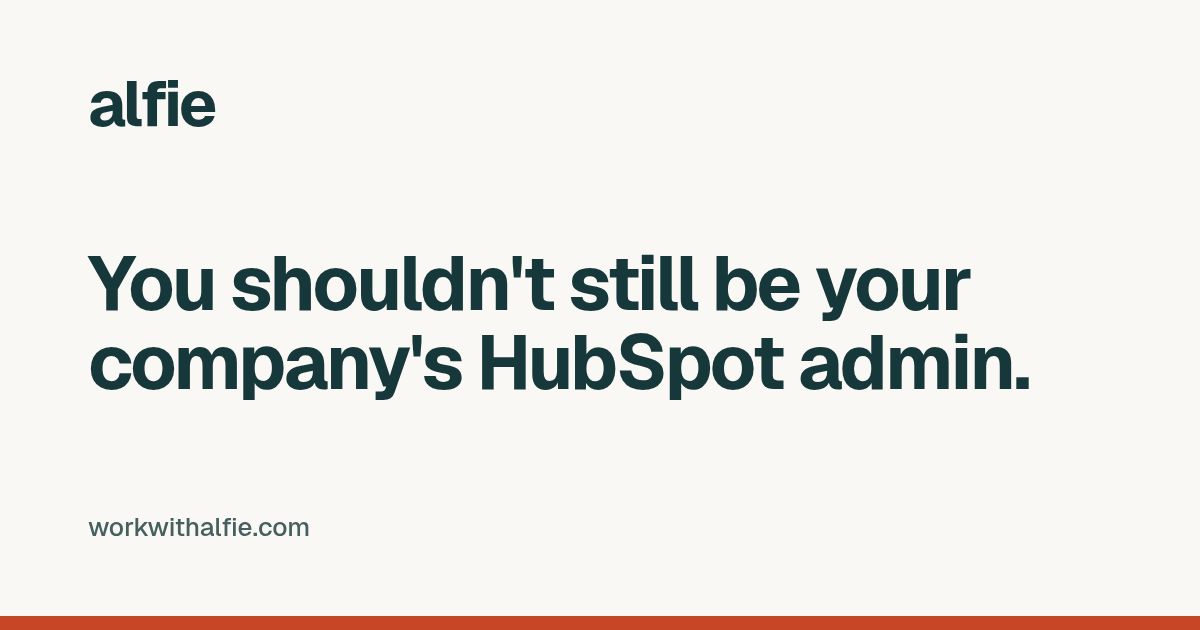
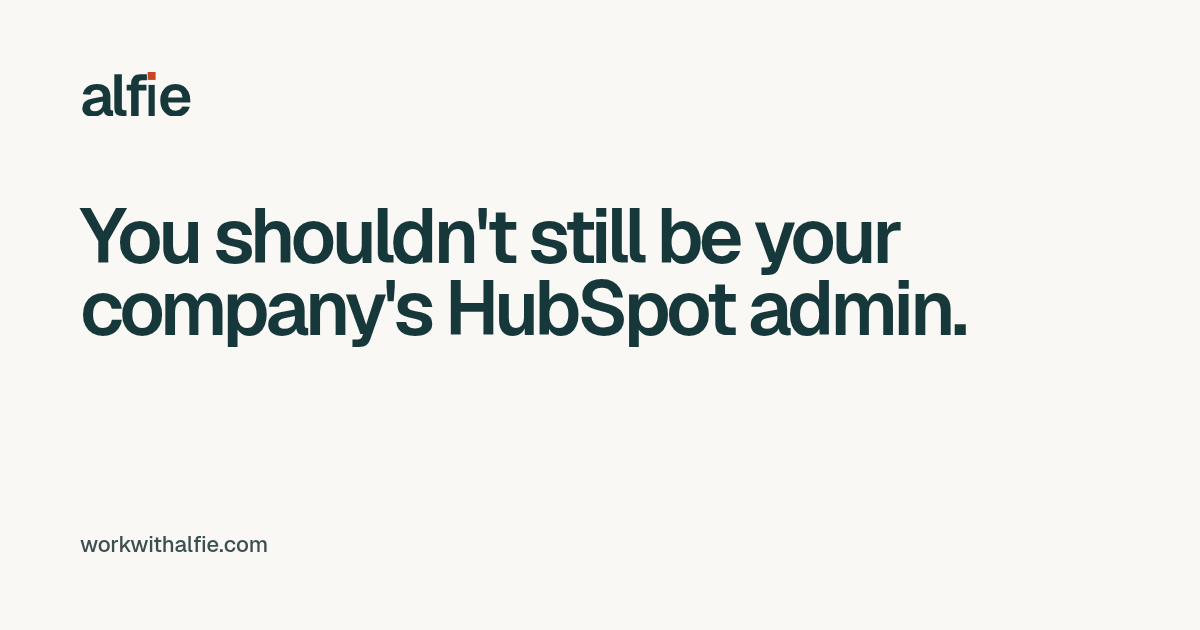
Apply brand guide v0.1 and copy v0.3

diff --git a/index.html b/index.html
@@ -7,7 +7,10 @@
 <meta name="description" content="Alfie gets the HubSpot basics running for growing SaaS teams, on standard rules you approve. Every change is checked against your rules, and you sign off on what matters.">
 <meta name="robots" content="noindex, nofollow">
 <link rel="canonical" href="https://workwithalfie.com/">
+<link rel="icon" href="/favicon.ico" sizes="16x16 32x32 48x48">
 <link rel="icon" href="/favicon.svg" type="image/svg+xml">
+<link rel="icon" href="/icons/icon-32.png" type="image/png" sizes="32x32">
+<link rel="icon" href="/icons/icon-16.png" type="image/png" sizes="16x16">
 <link rel="apple-touch-icon" href="/apple-touch-icon.png">
 <meta name="theme-color" content="#FAF8F4">
 <meta property="og:type" content="website">
@@ -18,22 +21,24 @@
 <meta property="og:image" content="https://workwithalfie.com/og-image.png">
 <meta property="og:image:width" content="1200">
 <meta property="og:image:height" content="630">
-<meta property="og:image:alt" content="alfie. You shouldn't still be your company's HubSpot admin.">
+<meta property="og:image:alt" content="Alfie. You shouldn't still be your company's HubSpot admin.">
 <meta name="twitter:card" content="summary_large_image">
 <meta name="twitter:title" content="You shouldn't still be your company's HubSpot admin.">
 <meta name="twitter:description" content="Alfie starts on the basics, using standard rules you approve, and from day one checks your HubSpot and proposes fixes. Every change is checked.">
 <meta name="twitter:image" content="https://workwithalfie.com/og-image.png">
-<meta name="twitter:image:alt" content="alfie. You shouldn't still be your company's HubSpot admin.">
-<link rel="preconnect" href="https://fonts.googleapis.com">
-<link rel="preconnect" href="https://fonts.gstatic.com" crossorigin>
+<meta name="twitter:image:alt" content="Alfie. You shouldn't still be your company's HubSpot admin.">
 <link rel="preconnect" href="https://challenges.cloudflare.com">
-<link href="https://fonts.googleapis.com/css2?family=Geist:wght@400;500;600;700&amp;display=swap" rel="stylesheet">
+<link rel="preload" href="/fonts/Geist.woff2" as="font" type="font/woff2" crossorigin>
 <style>
+  /* Geist + Geist Mono, self-hosted (variable, latin subset). No external font requests. */
+  @font-face{font-family:"Geist";src:url("/fonts/Geist.woff2") format("woff2");font-weight:100 900;font-style:normal;font-display:swap}
+  @font-face{font-family:"Geist Mono";src:url("/fonts/GeistMono.woff2") format("woff2");font-weight:100 900;font-style:normal;font-display:swap}
   :root{
-    --bg:#FAF8F4; --ink:#17383A; --muted:#45605F; --accent:#C74625; --accent-dark:#A93A1E;
-    --card:#FFFFFF; --line:#E4DFD5; --soft:#F1EDE5; --input-border:#7A8C8A; --placeholder:#5F7170;
-    --err:#8E2F17; --err-bg:#FBE7E1; --ok-bg:#E3EEEC;
-    --radius:14px; --max:1120px;
+    --bg:#FAF8F4; --ink:#17383A; --muted:#5B6E6F; --body:#3D5051; --accent:#C74625; --accent-dark:#A73A1E;
+    --accent-text:#9E3519; --accent-on-dark:#EFAA89; --attn-bg:#FDF6F2;
+    --card:#FFFFFF; --line:#E3DED4; --line-row:#EEEAE2; --line-strong:#C9C2B4; --soft:#F2EEE7; --input-border:#8A8273; --placeholder:#5F7170;
+    --err:#8E2F17; --err-bg:#FBE7E1; --ok-bg:#E3EDEC;
+    --radius:10px; --max:1200px;
   }
   *{box-sizing:border-box}
   html{-webkit-text-size-adjust:100%;scroll-behavior:smooth}
@@ -194,6 +199,44 @@
     .btn:hover,.btn:focus-visible{transform:translateY(-1px)}
   }
   @media (prefers-reduced-motion:reduce){html{scroll-behavior:auto}*{transition:none!important}}
+  /* Brand guide v0.1 (Oct 20) fixes */
+  .wrap{padding-left:32px;padding-right:32px}
+  :focus-visible{outline:2px solid var(--ink);outline-offset:3px}
+  .wordmark{display:inline-flex;align-items:center;line-height:0}
+  header .wordmark svg{height:22.5px;width:auto} footer .wordmark svg{height:18px;width:auto}
+  h1{font-size:clamp(44px,6vw,84px);line-height:.95;letter-spacing:-0.055em;font-weight:600}
+  h2{font-size:clamp(32px,3.6vw,48px);line-height:1;letter-spacing:-0.045em;font-weight:600}
+  .card h3{font-size:20px;font-weight:600;letter-spacing:-0.02em}
+  .lede,.card p,.more-box p{color:var(--body)}
+  .label{font-size:12px;font-weight:600;letter-spacing:.14em;color:var(--accent-text)}
+  .btn{border-radius:6px;font-weight:500;padding:14px 24px;min-height:48px}
+  .btn-primary:hover{background:var(--accent-dark)}
+  .btn-ghost{border:1px solid var(--input-border);background:#fff;padding:13px 23px}
+  .btn-ghost:hover{background:var(--soft)}
+  .queue{border-radius:10px;box-shadow:0 24px 48px -24px rgba(23,56,58,.18)}
+  .queue-head{font-family:"Geist Mono",ui-monospace,monospace;font-size:12px;font-weight:500;letter-spacing:.04em;border-bottom-color:var(--line-row)}
+  .queue-head span{font-family:Geist,system-ui,sans-serif;text-transform:none;letter-spacing:0;font-size:12px;color:var(--muted)}
+  .queue-head span{margin-left:auto} /* keep WORK QUEUE beside the live dot, not centred */
+  .status{font-family:"Geist Mono",ui-monospace,monospace;font-size:11px;font-weight:500;letter-spacing:0;padding:5px 9px;border-radius:4px}
+  .s-done{background:var(--ok-bg);color:var(--ink)}
+  .s-approve{background:var(--accent);color:#fff}
+  .s-check{background:transparent;color:var(--ink);border:1px solid var(--input-border)}
+  .flow{background:#fff}
+  .flow ol{font-family:"Geist Mono",ui-monospace,monospace;font-size:13px;font-weight:400;letter-spacing:.04em;justify-content:flex-start}
+  .flow .n{border:0;width:auto;height:auto;font-size:13px;font-weight:400;color:var(--accent-text)}
+  .card{border-radius:10px}
+  .more-box{border-radius:10px}
+  .cta-box{border-radius:10px}
+  .cta-box .intro p{color:#D2DCDB}
+  .form-card{border-radius:10px}
+  .field input,.field textarea{border:1px solid var(--input-border);border-radius:6px}
+  .field input:focus,.field textarea:focus{outline:2px solid var(--ink);outline-offset:2px}
+  .navlink{border:1px solid var(--ink);border-radius:6px;padding:11px 19px;min-height:44px;display:inline-flex;align-items:center;box-sizing:border-box}
+  .flow .n::before{display:none}
+  @media (max-width:480px){.wrap{padding-left:20px;padding-right:20px}}
+  /* 44px tap area for the inline privacy link, without changing how it looks */
+  .small a{position:relative;white-space:nowrap}
+  .small a::after{content:"";position:absolute;left:-6px;right:-6px;top:50%;height:44px;transform:translateY(-50%)}
 </style>
 </head>
 <body>
@@ -201,7 +244,11 @@
 
 <header class="top">
   <div class="wrap">
-    <a class="wordmark" href="/" aria-label="Alfie home">alfie</a>
+    <a class="wordmark" href="/" aria-label="Alfie home"><svg xmlns="http://www.w3.org/2000/svg" viewBox="0 0 168.96 66.00" aria-hidden="true" focusable="false">
+<path fill="#17383A" d="M19.764808593749997 67.056Q12.4432021484375 67.056 7.94638818359375 63.6767978515625Q3.4495742187499996 60.297595703125 3.4495742187499996 54.24319140625Q3.4495742187499996 48.1183828125 7.233590332031249 44.70398388671875Q11.017606445312499 41.2895849609375 18.70880859375 39.775978515625L34.337552734374995 36.73118066406251Q34.337552734374995 31.715234375 32.04078173828125 29.1984580078125Q29.7440107421875 26.681681640625 25.29127734375 26.681681640625Q21.190522460937498 26.681681640625 18.84975146484375 28.556064453125003Q16.50898046875 30.430447265625006 15.699395507812499 33.985617187500004L4.241574218749999 33.4048193359375Q5.596776367187499 25.995169921875004 11.061601074218748 21.973574218750002Q16.526425781249998 17.951978515625 25.29127734375 17.951978515625Q35.323341796875 17.951978515625 40.4625654296875 22.99437744140625Q45.601789062499996 28.0367763671875 45.601789062499996 37.45280859375001V54.5774775390625Q45.601789062499996 56.4430947265625 46.244193359375 57.12069580078125Q46.88659765625 57.798296875 48.20659765625 57.798296875H49.702576171874995V66.0Q49.1745654296875 66.158404296875 47.995341796874996 66.27280859375Q46.816118164062495 66.387212890625 45.619298828125 66.387212890625Q42.697713867187495 66.387212890625 40.41849560546875 65.42801611328125Q38.139277343749995 64.4688193359375 36.87205371093749 62.172010742187496Q35.604830078125 59.8752021484375 35.604830078125 55.827169921875L36.625638671874995 56.496Q35.868830078125 59.5936064453125 33.563234375 61.99600537109375Q31.257638671874997 64.398404296875 27.720037597656248 65.7272021484375Q24.1824365234375 67.056 19.764808593749997 67.056ZM22.088107421874998 58.854296875Q25.836851562499998 58.854296875 28.5736171875 57.384717285156256Q31.3103828125 55.9151376953125 32.823967773437495 53.248765625000004Q34.337552734374995 50.5823935546875 34.337552734374995 47.027212890625V44.387255859375L22.158533203125 46.851234375000004Q18.4273955078125 47.590425781250005 16.7642041015625 49.1480107421875Q15.1010126953125 50.705595703125 15.1010126953125 53.187169921875Q15.1010126953125 55.879935546875004 16.92258154296875 57.3671162109375Q18.744150390625 58.854296875 22.088107421874998 58.854296875Z M62.779277343749996 66.0Q57.60480859374999 66.0 54.55997851562499 63.3599677734375Q51.515148437499995 60.719935546875 51.515148437499995 54.876658203125004V3.520000000000003H62.779384765625V53.7326259765625Q62.779384765625 55.5630517578125 63.68579443359374 56.416658203125Q64.59220410156249 57.270264648437504 66.28182128906249 57.270264648437504H69.731384765625V66.0Z M76.69317869101977 66.0V17.19896377473364Q76.69317869101977 10.821856925418572 80.21189284627091 7.170928462709288Q83.73060700152206 3.520000000000003 91.16392815829526 3.520000000000003H100.35553485540333V12.270535159817356H93.2720706240487Q90.54407062404869 12.270535159817356 89.26785631659055 13.678749467275502Q87.9916420091324 15.086963774733647 87.9916420091324 17.770856621004576V66.0ZM70.00603592085234 27.759392389649925V19.00885722983257H99.6956420091324V27.759392389649925Z M143.40487304687497 67.056Q136.382447265625 67.056 131.21682470703124 64.0287978515625Q126.05120214843748 61.001595703125 123.22638818359374 55.4663935546875Q120.40157421874999 49.93119140625 120.40157421874999 42.503989257812506Q120.40157421874999 35.076787109375005 123.22638818359374 29.585584960937503Q126.05120214843748 24.0943828125 131.16402685546873 21.0231806640625Q136.27685156249998 17.951978515625 143.193681640625 17.951978515625Q149.89932031249998 17.951978515625 154.93294287109373 20.952787109375002Q159.96656542968748 23.953595703125004 162.72097509765624 29.5856064453125Q165.475384765625 35.2176171875 165.475384765625 43.120021484375V45.6368408203125H132.08821484375Q132.4226083984375 51.8495634765625 135.458576171875 54.94712158203125Q138.49454394531247 58.0446796875 143.545681640625 58.0446796875Q147.31203222656248 58.0446796875 149.80240429687498 56.36390869140625Q152.29277636718749 54.6831376953125 153.2959677734375 51.5855634765625L164.80658691406248 52.307169921875Q162.92338476562497 59.118404296875 157.22975146484373 63.0872021484375Q151.5361181640625 67.056 143.40487304687497 67.056ZM132.08821484375 38.0687763671875H153.788765625Q153.4367763671875 32.3488408203125 150.55920751953124 29.585665527343753Q147.681638671875 26.822490234375003 143.193681640625 26.822490234375003Q138.670533203125 26.822490234375003 135.7225654296875 29.71766552734375Q132.77459765625 32.6128408203125 132.08821484375 38.0687763671875Z"/>
+<rect x="102.87" y="19.36" width="9.24" height="46.64" fill="#17383A"/>
+<rect x="101.55" y="-0.00" width="11.88" height="11.88" fill="#C74625"/>
+</svg></a>
     <a class="navlink" href="#contact">Contact</a>
   </div>
 </header>
@@ -212,7 +259,7 @@
       <div>
         <p class="label">For SaaS teams running on HubSpot</p>
         <h1 id="hero-title">You shouldn't still be your company's HubSpot admin.</h1>
-        <p class="pains">We built Alfie after watching a fast-growing SaaS team outgrow HubSpot: <strong>duplicate accounts, ownership fights, a forecast nobody trusted.</strong></p>
+        <p class="pains">We built Alfie after watching a fast-growing SaaS team's HubSpot setup fall behind the business: <strong>duplicate accounts, ownership fights, a forecast nobody trusted.</strong></p>
         <p class="lede">Alfie starts on the basics: clean data and required fields first, then routing and account ownership. You approve a set of standard rules, and from day one Alfie checks your HubSpot against them and proposes fixes. Every change is checked against your rules, and you sign off on what matters.</p>
         <div class="actions">
           <a class="btn btn-primary" href="#contact">Tell us what's breaking</a>
@@ -221,7 +268,7 @@
       </div>
 
       <figure class="queue" aria-label="Example of Alfie's work queue. Example data; names and numbers are illustrative.">
-        <div class="queue-head">Alfie work queue <span>Example data</span></div>
+        <div class="queue-head">WORK QUEUE <span>Example data</span></div>
         <ol>
           <li><span class="job">Clean new contacts</span><span class="detail">Names, fields and lifecycle stage checked</span><span class="status s-done">DONE</span></li>
           <li><span class="job">Assign Acme to Sarah</span><span class="detail">Territory passes. Over owner cap.</span><span class="status s-approve">NEEDS APPROVAL</span></li>
@@ -236,10 +283,10 @@
   <nav class="flow" aria-label="How a change happens">
     <div class="wrap">
       <ol>
-        <li><span class="n" aria-hidden="true">1</span>Request</li>
-        <li><span class="n" aria-hidden="true">2</span>Rule check</li>
-        <li><span class="n" aria-hidden="true">3</span>Approval if needed</li>
-        <li><span class="n" aria-hidden="true">4</span>Verified in HubSpot</li>
+        <li><span class="n" aria-hidden="true">01</span>Request</li>
+        <li><span class="n" aria-hidden="true">02</span>Rule check</li>
+        <li><span class="n" aria-hidden="true">03</span>Approval if needed</li>
+        <li><span class="n" aria-hidden="true">04</span>Verified in HubSpot</li>
       </ol>
     </div>
   </nav>
@@ -269,7 +316,7 @@
     <div class="wrap">
       <div class="more-box">
         <h2 id="complex-title">More complicated processes?</h2>
-        <p>Some processes are custom or were never written down. We'll assess how they really run, design and document the fix with you, then Alfie runs it.</p>
+        <p>Some processes are custom or were never written down. We'll work out how they really run, design and document the fix with you, then Alfie runs it.</p>
       </div>
     </div>
   </section>
@@ -278,7 +325,7 @@
     <div class="wrap">
       <div class="cta-box">
         <div class="intro">
-          <h2 id="cta-title">Tell us what's breaking in your HubSpot.</h2>
+          <h2 id="cta-title">Tell us what's breaking in your HubSpot setup.</h2>
           <p>A few lines is plenty. We'll reply within a day.</p>
           <p class="new">We're new, so we're working with a small first group of teams.</p>
         </div>
@@ -300,7 +347,7 @@
               <p class="field-error" id="e-company"></p>
             </div>
             <div class="field">
-              <label for="f-message">What's breaking in your HubSpot?</label>
+              <label for="f-message">What's breaking in your HubSpot setup?</label>
               <textarea id="f-message" name="message" rows="4" maxlength="3000" placeholder="For example: duplicate companies, deals with no owner, or a forecast no one uses. Who runs HubSpot today?" required aria-describedby="e-message"></textarea>
               <p class="field-error" id="e-message"></p>
             </div>
@@ -325,7 +372,11 @@
 
 <footer>
   <div class="wrap">
-    <span class="wordmark" role="img" aria-label="Alfie">alfie</span>
+    <span class="wordmark" role="img" aria-label="Alfie"><svg xmlns="http://www.w3.org/2000/svg" viewBox="0 0 168.96 66.00" aria-hidden="true" focusable="false">
+<path fill="#17383A" d="M19.764808593749997 67.056Q12.4432021484375 67.056 7.94638818359375 63.6767978515625Q3.4495742187499996 60.297595703125 3.4495742187499996 54.24319140625Q3.4495742187499996 48.1183828125 7.233590332031249 44.70398388671875Q11.017606445312499 41.2895849609375 18.70880859375 39.775978515625L34.337552734374995 36.73118066406251Q34.337552734374995 31.715234375 32.04078173828125 29.1984580078125Q29.7440107421875 26.681681640625 25.29127734375 26.681681640625Q21.190522460937498 26.681681640625 18.84975146484375 28.556064453125003Q16.50898046875 30.430447265625006 15.699395507812499 33.985617187500004L4.241574218749999 33.4048193359375Q5.596776367187499 25.995169921875004 11.061601074218748 21.973574218750002Q16.526425781249998 17.951978515625 25.29127734375 17.951978515625Q35.323341796875 17.951978515625 40.4625654296875 22.99437744140625Q45.601789062499996 28.0367763671875 45.601789062499996 37.45280859375001V54.5774775390625Q45.601789062499996 56.4430947265625 46.244193359375 57.12069580078125Q46.88659765625 57.798296875 48.20659765625 57.798296875H49.702576171874995V66.0Q49.1745654296875 66.158404296875 47.995341796874996 66.27280859375Q46.816118164062495 66.387212890625 45.619298828125 66.387212890625Q42.697713867187495 66.387212890625 40.41849560546875 65.42801611328125Q38.139277343749995 64.4688193359375 36.87205371093749 62.172010742187496Q35.604830078125 59.8752021484375 35.604830078125 55.827169921875L36.625638671874995 56.496Q35.868830078125 59.5936064453125 33.563234375 61.99600537109375Q31.257638671874997 64.398404296875 27.720037597656248 65.7272021484375Q24.1824365234375 67.056 19.764808593749997 67.056ZM22.088107421874998 58.854296875Q25.836851562499998 58.854296875 28.5736171875 57.384717285156256Q31.3103828125 55.9151376953125 32.823967773437495 53.248765625000004Q34.337552734374995 50.5823935546875 34.337552734374995 47.027212890625V44.387255859375L22.158533203125 46.851234375000004Q18.4273955078125 47.590425781250005 16.7642041015625 49.1480107421875Q15.1010126953125 50.705595703125 15.1010126953125 53.187169921875Q15.1010126953125 55.879935546875004 16.92258154296875 57.3671162109375Q18.744150390625 58.854296875 22.088107421874998 58.854296875Z M62.779277343749996 66.0Q57.60480859374999 66.0 54.55997851562499 63.3599677734375Q51.515148437499995 60.719935546875 51.515148437499995 54.876658203125004V3.520000000000003H62.779384765625V53.7326259765625Q62.779384765625 55.5630517578125 63.68579443359374 56.416658203125Q64.59220410156249 57.270264648437504 66.28182128906249 57.270264648437504H69.731384765625V66.0Z M76.69317869101977 66.0V17.19896377473364Q76.69317869101977 10.821856925418572 80.21189284627091 7.170928462709288Q83.73060700152206 3.520000000000003 91.16392815829526 3.520000000000003H100.35553485540333V12.270535159817356H93.2720706240487Q90.54407062404869 12.270535159817356 89.26785631659055 13.678749467275502Q87.9916420091324 15.086963774733647 87.9916420091324 17.770856621004576V66.0ZM70.00603592085234 27.759392389649925V19.00885722983257H99.6956420091324V27.759392389649925Z M143.40487304687497 67.056Q136.382447265625 67.056 131.21682470703124 64.0287978515625Q126.05120214843748 61.001595703125 123.22638818359374 55.4663935546875Q120.40157421874999 49.93119140625 120.40157421874999 42.503989257812506Q120.40157421874999 35.076787109375005 123.22638818359374 29.585584960937503Q126.05120214843748 24.0943828125 131.16402685546873 21.0231806640625Q136.27685156249998 17.951978515625 143.193681640625 17.951978515625Q149.89932031249998 17.951978515625 154.93294287109373 20.952787109375002Q159.96656542968748 23.953595703125004 162.72097509765624 29.5856064453125Q165.475384765625 35.2176171875 165.475384765625 43.120021484375V45.6368408203125H132.08821484375Q132.4226083984375 51.8495634765625 135.458576171875 54.94712158203125Q138.49454394531247 58.0446796875 143.545681640625 58.0446796875Q147.31203222656248 58.0446796875 149.80240429687498 56.36390869140625Q152.29277636718749 54.6831376953125 153.2959677734375 51.5855634765625L164.80658691406248 52.307169921875Q162.92338476562497 59.118404296875 157.22975146484373 63.0872021484375Q151.5361181640625 67.056 143.40487304687497 67.056ZM132.08821484375 38.0687763671875H153.788765625Q153.4367763671875 32.3488408203125 150.55920751953124 29.585665527343753Q147.681638671875 26.822490234375003 143.193681640625 26.822490234375003Q138.670533203125 26.822490234375003 135.7225654296875 29.71766552734375Q132.77459765625 32.6128408203125 132.08821484375 38.0687763671875Z"/>
+<rect x="102.87" y="19.36" width="9.24" height="46.64" fill="#17383A"/>
+<rect x="101.55" y="-0.00" width="11.88" height="11.88" fill="#C74625"/>
+</svg></span>
     <span>ben@workwithalfie.com</span>
     <span>&copy; 2026 Alfie · <a href="/privacy.html">Privacy</a></span>
   </div>

diff --git a/privacy.html b/privacy.html
@@ -7,32 +7,38 @@
 <meta name="description" content="How Alfie handles the details you send through the workwithalfie.com contact form.">
 <meta name="robots" content="noindex, nofollow">
 <link rel="canonical" href="https://workwithalfie.com/privacy.html">
+<link rel="icon" href="/favicon.ico" sizes="16x16 32x32 48x48">
 <link rel="icon" href="/favicon.svg" type="image/svg+xml">
+<link rel="icon" href="/icons/icon-32.png" type="image/png" sizes="32x32">
+<link rel="icon" href="/icons/icon-16.png" type="image/png" sizes="16x16">
 <link rel="apple-touch-icon" href="/apple-touch-icon.png">
 <meta name="theme-color" content="#FAF8F4">
-<link rel="preconnect" href="https://fonts.googleapis.com">
-<link rel="preconnect" href="https://fonts.gstatic.com" crossorigin>
-<link href="https://fonts.googleapis.com/css2?family=Geist:wght@400;500;600;700&amp;display=swap" rel="stylesheet">
+<link rel="preload" href="/fonts/Geist.woff2" as="font" type="font/woff2" crossorigin>
 <style>
-  :root{--bg:#FAF8F4;--ink:#17383A;--muted:#45605F;--accent:#C74625;--line:#E4DFD5;--max:720px}
+  /* Geist + Geist Mono, self-hosted (variable, latin subset). No external font requests. */
+  @font-face{font-family:"Geist";src:url("/fonts/Geist.woff2") format("woff2");font-weight:100 900;font-style:normal;font-display:swap}
+  @font-face{font-family:"Geist Mono";src:url("/fonts/GeistMono.woff2") format("woff2");font-weight:100 900;font-style:normal;font-display:swap}
+  :root{--bg:#FAF8F4;--ink:#17383A;--muted:#5B6E6F;--accent:#C74625;--line:#E3DED4;--max:720px}
   *{box-sizing:border-box}
   html{-webkit-text-size-adjust:100%}
   body{margin:0;background:var(--bg);color:var(--ink);
     font-family:"Geist",system-ui,-apple-system,"Segoe UI",Roboto,Helvetica,Arial,sans-serif;
     font-size:17px;line-height:1.6;-webkit-font-smoothing:antialiased}
   a{color:var(--ink)}
-  :focus-visible{outline:3px solid var(--accent);outline-offset:3px;border-radius:6px}
+  :focus-visible{outline:2px solid var(--ink);outline-offset:3px;border-radius:6px}
   .skip{position:absolute;left:-9999px;top:0;background:var(--ink);color:#fff;padding:10px 14px;border-radius:8px}
   .skip:focus{left:12px;top:12px}
   .wrap{max-width:var(--max);margin:0 auto;padding:0 24px}
   header{padding:22px 0}
-  .wordmark{font-weight:700;font-size:28px;letter-spacing:-0.04em;text-decoration:none;color:var(--ink);line-height:1}
+  .wordmark{display:inline-flex;align-items:center;line-height:0;text-decoration:none;color:var(--ink)}
+  header .wordmark svg{height:22.5px;width:auto}
   main{padding:32px 0 72px}
   /* Enlarge the tap area of small links to 44px tall without changing how they look */
-  a.wordmark,footer a{position:relative}
-  a.wordmark::after,footer a::after{content:"";position:absolute;left:-8px;right:-8px;top:50%;height:44px;transform:translateY(-50%)}
-  h1{font-size:clamp(32px,4.4vw,44px);line-height:1.1;letter-spacing:-0.03em;margin:0 0 12px}
-  h2{font-size:20px;letter-spacing:-0.01em;margin:36px 0 8px}
+  a.wordmark,footer a,main p a{position:relative}
+  main p a{white-space:nowrap}
+  a.wordmark::after,footer a::after,main p a::after{content:"";position:absolute;left:-8px;right:-8px;top:50%;height:44px;transform:translateY(-50%)}
+  h1{font-size:clamp(32px,4.4vw,44px);line-height:1.05;letter-spacing:-0.045em;font-weight:600;margin:0 0 12px}
+  h2{font-size:20px;letter-spacing:-0.02em;font-weight:600;margin:36px 0 8px}
   p,ul{margin:0 0 14px}
   ul{padding-left:22px}
   .meta{color:var(--muted);font-size:15px}
@@ -45,7 +51,11 @@
 <body>
 <a class="skip" href="#main">Skip to content</a>
 <header>
-  <div class="wrap"><a class="wordmark" href="/" aria-label="Alfie home">alfie</a></div>
+  <div class="wrap"><a class="wordmark" href="/" aria-label="Alfie home"><svg xmlns="http://www.w3.org/2000/svg" viewBox="0 0 168.96 66.00" aria-hidden="true" focusable="false">
+<path fill="#17383A" d="M19.764808593749997 67.056Q12.4432021484375 67.056 7.94638818359375 63.6767978515625Q3.4495742187499996 60.297595703125 3.4495742187499996 54.24319140625Q3.4495742187499996 48.1183828125 7.233590332031249 44.70398388671875Q11.017606445312499 41.2895849609375 18.70880859375 39.775978515625L34.337552734374995 36.73118066406251Q34.337552734374995 31.715234375 32.04078173828125 29.1984580078125Q29.7440107421875 26.681681640625 25.29127734375 26.681681640625Q21.190522460937498 26.681681640625 18.84975146484375 28.556064453125003Q16.50898046875 30.430447265625006 15.699395507812499 33.985617187500004L4.241574218749999 33.4048193359375Q5.596776367187499 25.995169921875004 11.061601074218748 21.973574218750002Q16.526425781249998 17.951978515625 25.29127734375 17.951978515625Q35.323341796875 17.951978515625 40.4625654296875 22.99437744140625Q45.601789062499996 28.0367763671875 45.601789062499996 37.45280859375001V54.5774775390625Q45.601789062499996 56.4430947265625 46.244193359375 57.12069580078125Q46.88659765625 57.798296875 48.20659765625 57.798296875H49.702576171874995V66.0Q49.1745654296875 66.158404296875 47.995341796874996 66.27280859375Q46.816118164062495 66.387212890625 45.619298828125 66.387212890625Q42.697713867187495 66.387212890625 40.41849560546875 65.42801611328125Q38.139277343749995 64.4688193359375 36.87205371093749 62.172010742187496Q35.604830078125 59.8752021484375 35.604830078125 55.827169921875L36.625638671874995 56.496Q35.868830078125 59.5936064453125 33.563234375 61.99600537109375Q31.257638671874997 64.398404296875 27.720037597656248 65.7272021484375Q24.1824365234375 67.056 19.764808593749997 67.056ZM22.088107421874998 58.854296875Q25.836851562499998 58.854296875 28.5736171875 57.384717285156256Q31.3103828125 55.9151376953125 32.823967773437495 53.248765625000004Q34.337552734374995 50.5823935546875 34.337552734374995 47.027212890625V44.387255859375L22.158533203125 46.851234375000004Q18.4273955078125 47.590425781250005 16.7642041015625 49.1480107421875Q15.1010126953125 50.705595703125 15.1010126953125 53.187169921875Q15.1010126953125 55.879935546875004 16.92258154296875 57.3671162109375Q18.744150390625 58.854296875 22.088107421874998 58.854296875Z M62.779277343749996 66.0Q57.60480859374999 66.0 54.55997851562499 63.3599677734375Q51.515148437499995 60.719935546875 51.515148437499995 54.876658203125004V3.520000000000003H62.779384765625V53.7326259765625Q62.779384765625 55.5630517578125 63.68579443359374 56.416658203125Q64.59220410156249 57.270264648437504 66.28182128906249 57.270264648437504H69.731384765625V66.0Z M76.69317869101977 66.0V17.19896377473364Q76.69317869101977 10.821856925418572 80.21189284627091 7.170928462709288Q83.73060700152206 3.520000000000003 91.16392815829526 3.520000000000003H100.35553485540333V12.270535159817356H93.2720706240487Q90.54407062404869 12.270535159817356 89.26785631659055 13.678749467275502Q87.9916420091324 15.086963774733647 87.9916420091324 17.770856621004576V66.0ZM70.00603592085234 27.759392389649925V19.00885722983257H99.6956420091324V27.759392389649925Z M143.40487304687497 67.056Q136.382447265625 67.056 131.21682470703124 64.0287978515625Q126.05120214843748 61.001595703125 123.22638818359374 55.4663935546875Q120.40157421874999 49.93119140625 120.40157421874999 42.503989257812506Q120.40157421874999 35.076787109375005 123.22638818359374 29.585584960937503Q126.05120214843748 24.0943828125 131.16402685546873 21.0231806640625Q136.27685156249998 17.951978515625 143.193681640625 17.951978515625Q149.89932031249998 17.951978515625 154.93294287109373 20.952787109375002Q159.96656542968748 23.953595703125004 162.72097509765624 29.5856064453125Q165.475384765625 35.2176171875 165.475384765625 43.120021484375V45.6368408203125H132.08821484375Q132.4226083984375 51.8495634765625 135.458576171875 54.94712158203125Q138.49454394531247 58.0446796875 143.545681640625 58.0446796875Q147.31203222656248 58.0446796875 149.80240429687498 56.36390869140625Q152.29277636718749 54.6831376953125 153.2959677734375 51.5855634765625L164.80658691406248 52.307169921875Q162.92338476562497 59.118404296875 157.22975146484373 63.0872021484375Q151.5361181640625 67.056 143.40487304687497 67.056ZM132.08821484375 38.0687763671875H153.788765625Q153.4367763671875 32.3488408203125 150.55920751953124 29.585665527343753Q147.681638671875 26.822490234375003 143.193681640625 26.822490234375003Q138.670533203125 26.822490234375003 135.7225654296875 29.71766552734375Q132.77459765625 32.6128408203125 132.08821484375 38.0687763671875Z"/>
+<rect x="102.87" y="19.36" width="9.24" height="46.64" fill="#17383A"/>
+<rect x="101.55" y="-0.00" width="11.88" height="11.88" fill="#C74625"/>
+</svg></a></div>
 </header>
 <main id="main">
   <div class="wrap">
